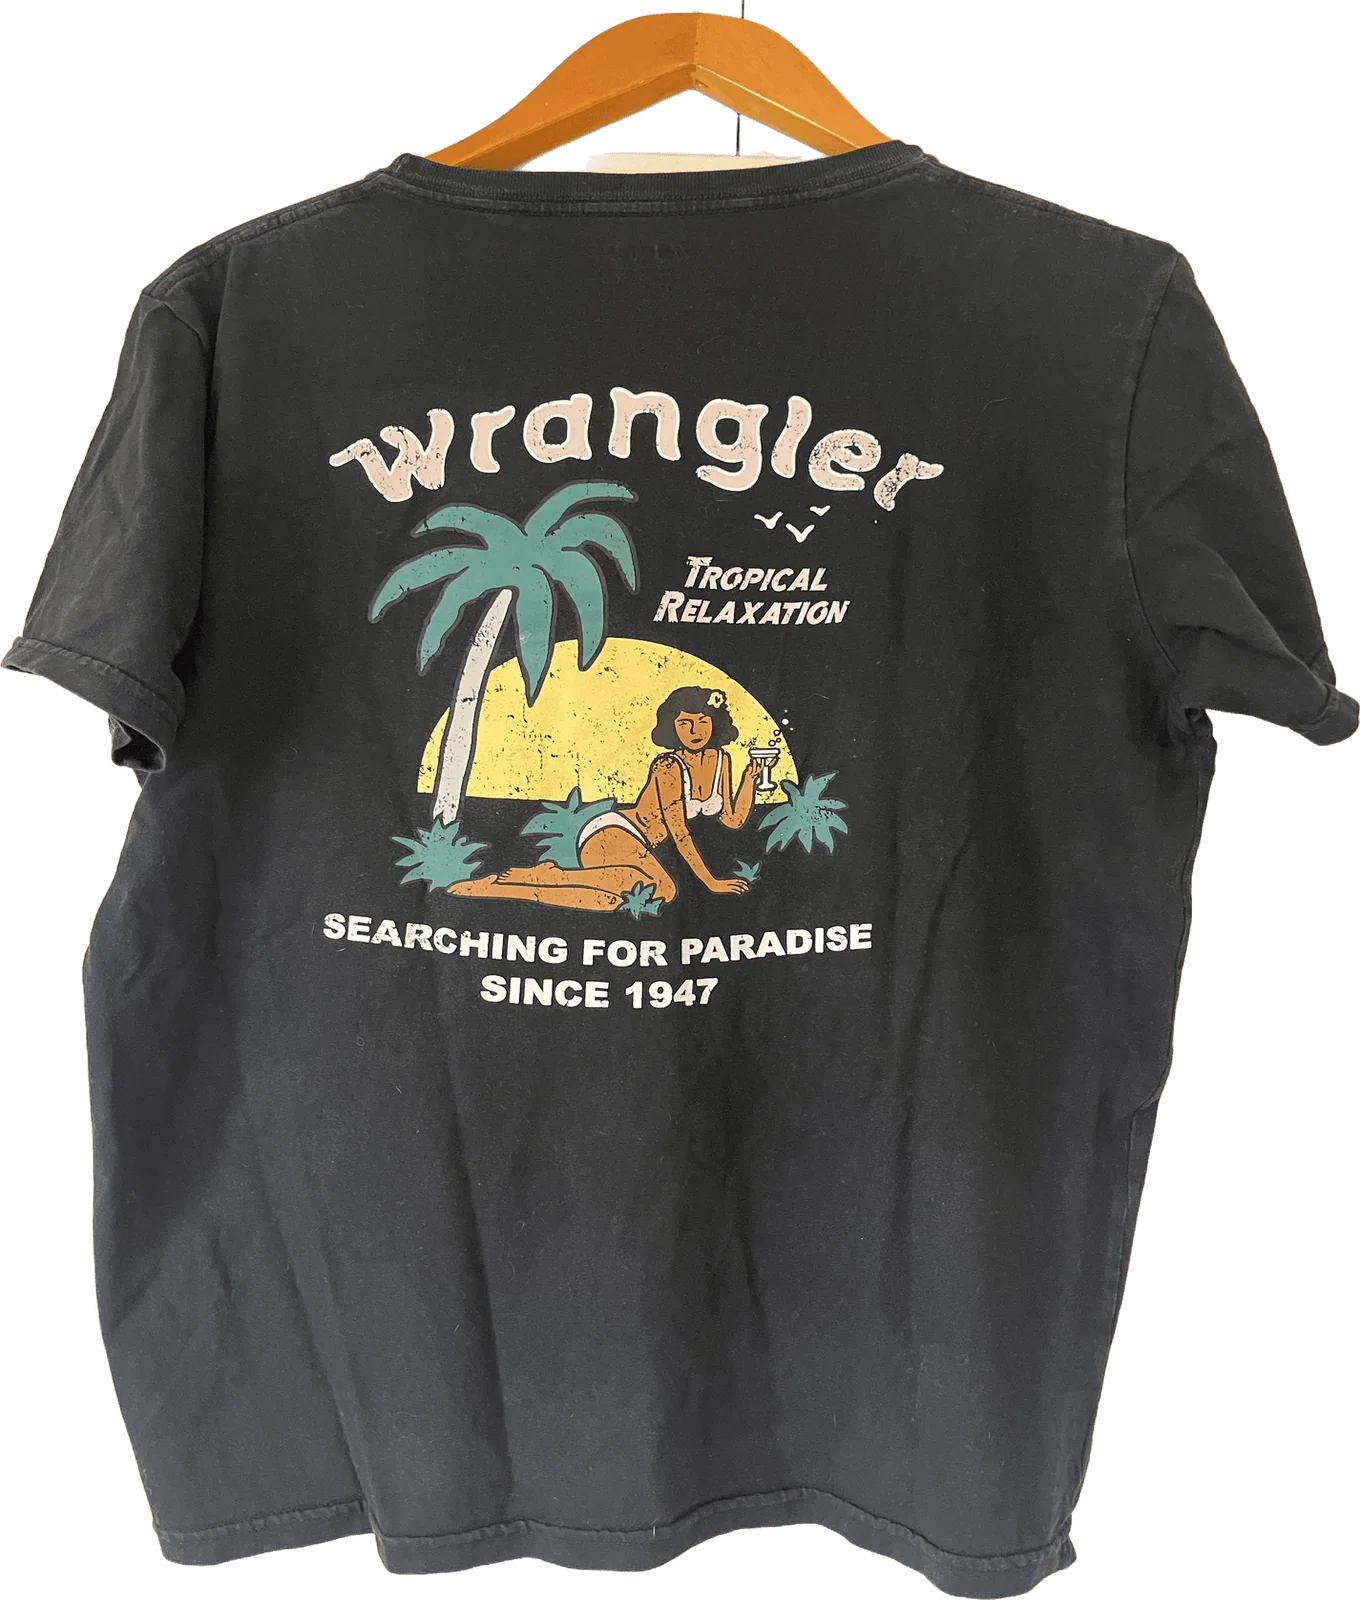
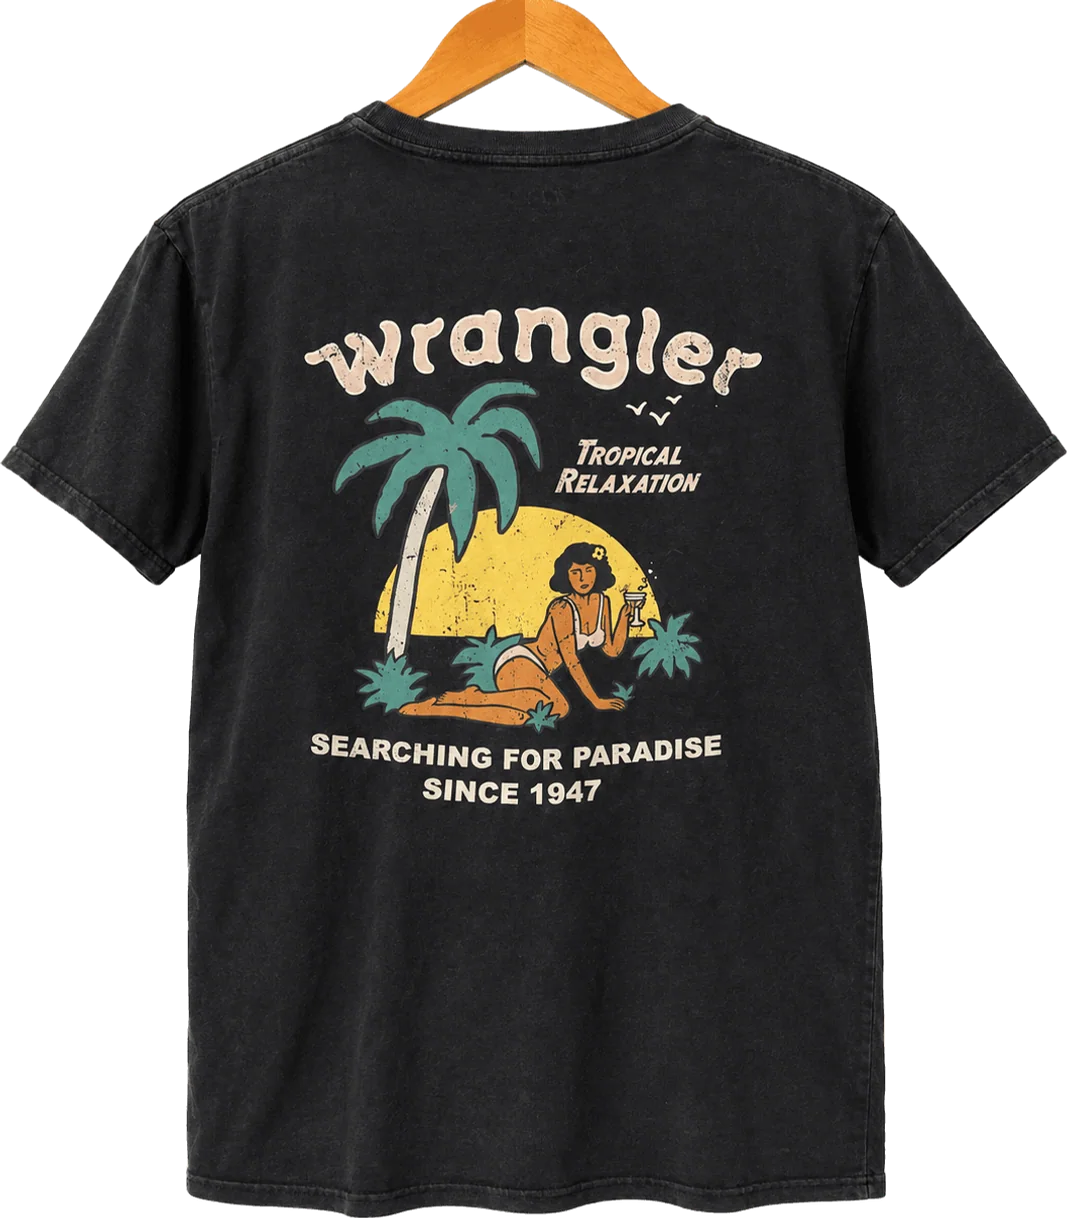
Fotos de catálogo (Gaucho, Wrangler, Vans 2) y sacar el gancho de la foto

diff --git a/herramientas/procesar.ts b/herramientas/procesar.ts
@@ -130,11 +130,19 @@ async function limpiarYRecortar(png: Buffer): Promise<sharp.Sharp> {
   }
   const mayor = tamanios.indexOf(Math.max(...tamanios));
 
+  // Sacamos el gancho de metal de la foto (en 3D ya hay uno de latón): desde arriba,
+  // todas las filas que son apenas una línea finita (mucho más angostas que la percha).
+  const anchoFila = new Array<number>(h).fill(0);
+  for (let p = 0; p < w * h; p++) if (pieza[p] === mayor) anchoFila[Math.floor(p / w)]++;
+  const anchoMax = Math.max(...anchoFila);
+  let inicioPercha = 0;
+  while (inicioPercha < h && anchoFila[inicioPercha] < anchoMax * 0.06) inicioPercha++;
+
   let x0 = w, y0 = h, x1 = -1, y1 = -1;
   for (let y = 0; y < h; y++) {
     for (let x = 0; x < w; x++) {
       const p = y * w + x;
-      if (pieza[p] !== mayor) {
+      if (pieza[p] !== mayor || y < inicioPercha) {
         data[p * c + 3] = 0;
         continue;
       }
